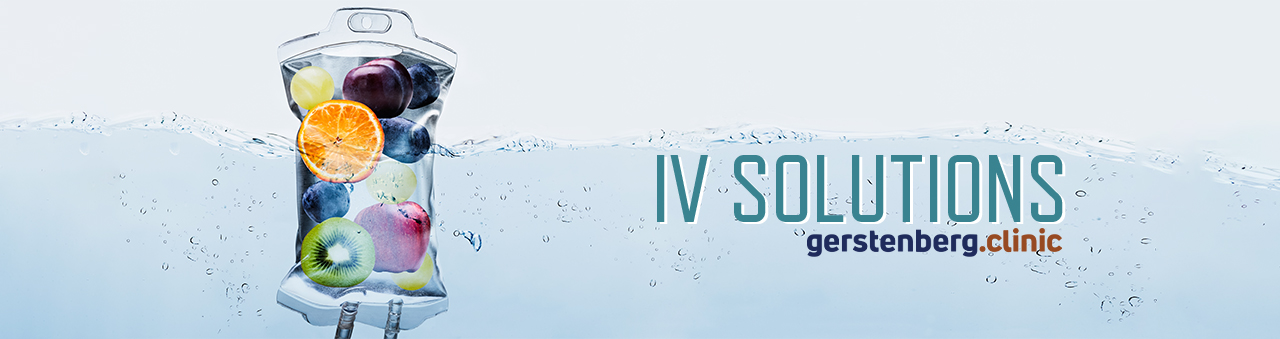
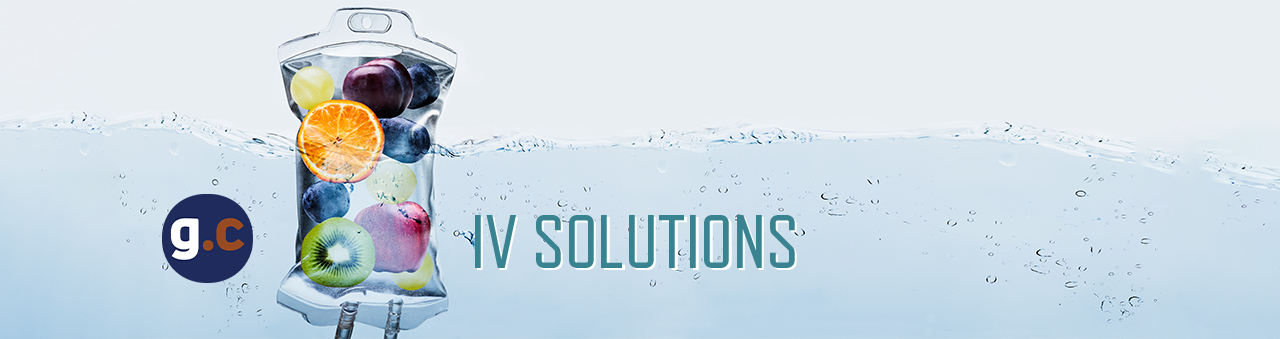
hero

Changed region(s): [[0.3438, 0.4425, 0.8438, 0.7965], [0.125, 0.5605, 0.2188, 0.8555]]

diff --git a/services/iv.html b/services/iv.html
@@ -1,7 +1,7 @@
 ---
 layout: default
 permalink: /services/iv
-hero: /img/heros/hero-gclinic-iv2.jpg
+hero: /img/heros/hero-gclinic-iv.jpg
 tagline: "Give People the Nutrients They Need - FAST!"
 stylesheet: o-shot
 description: "IV Solutions at gerstenberg.clinic provides patients with intravenous infusions of many different vitamins and minerals that the body needs. Using IV to obtain these nutrients allows the body to assimilate them much faster than oral supplements."
